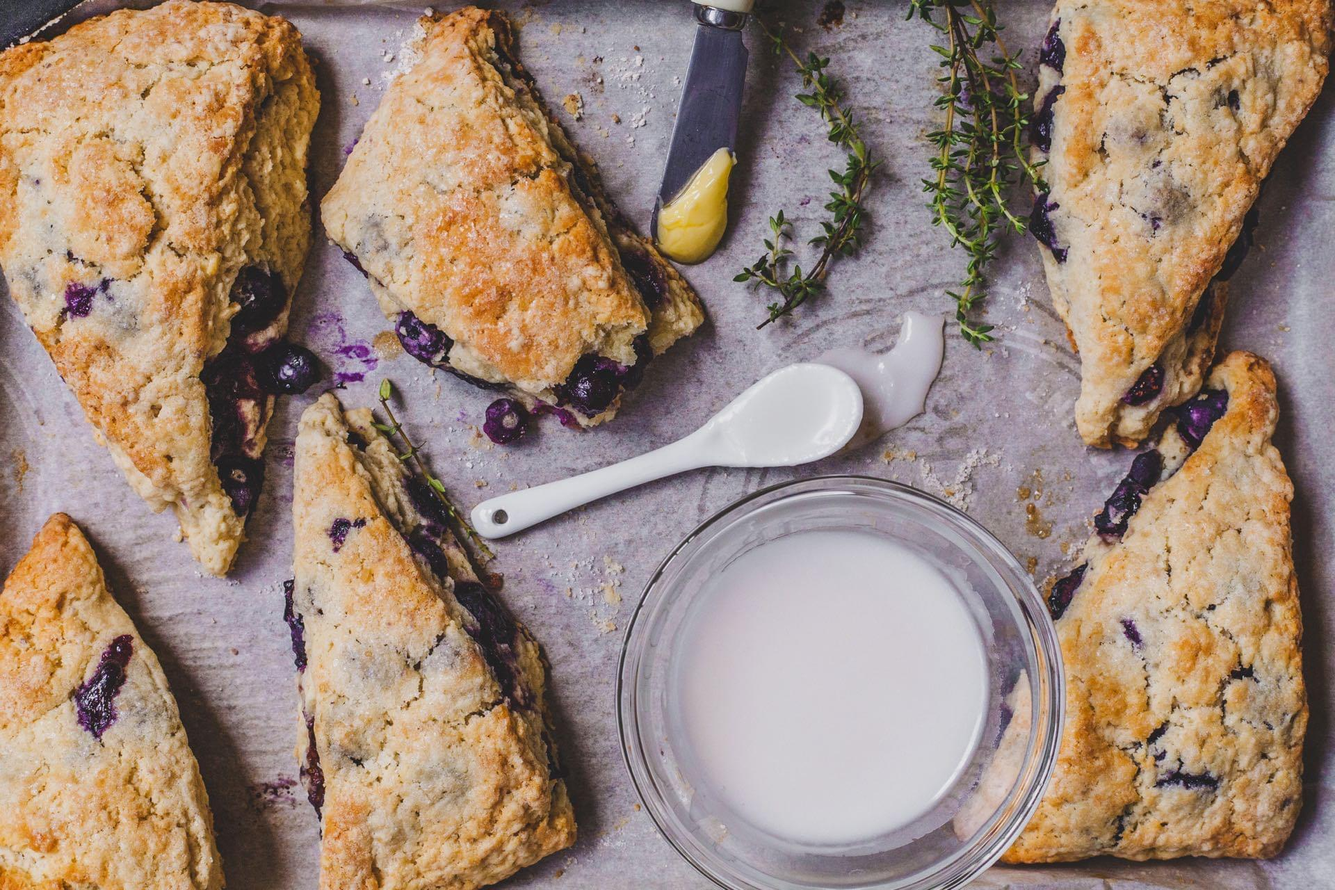
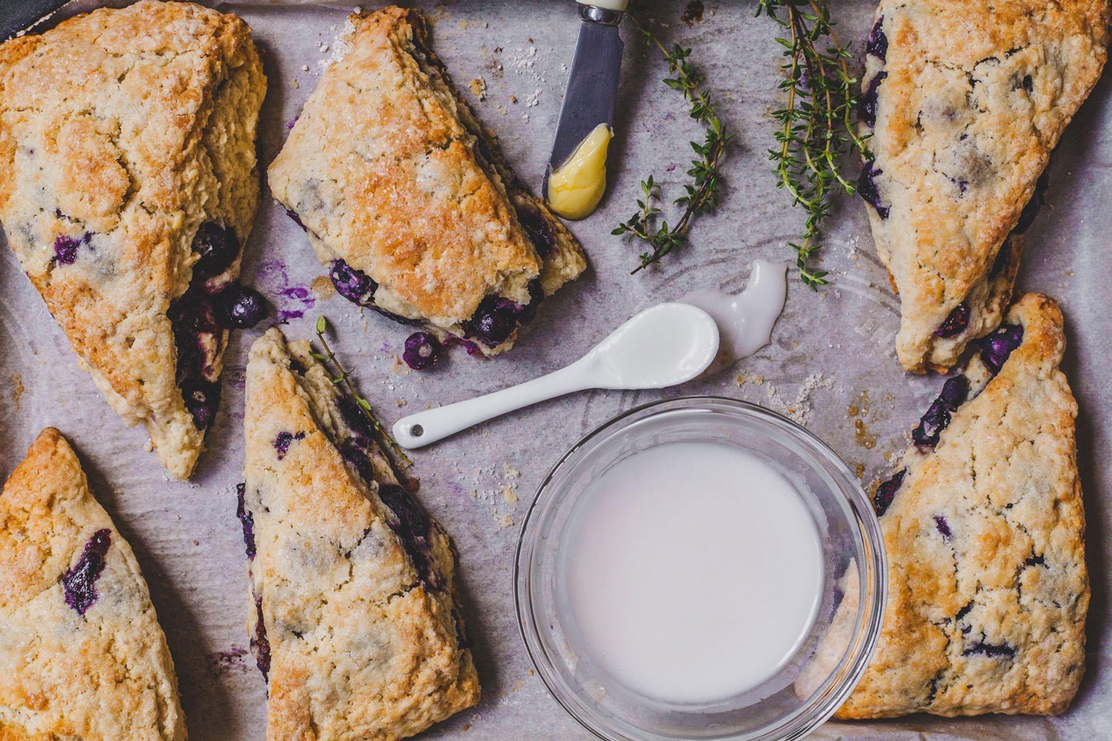
Recipe main page image thumbnails

diff --git a/site/layouts/blog/list.html b/site/layouts/blog/list.html
@@ -10,7 +10,7 @@
     <h3 class="cat_heading">Mains</h3>
     <ul class="related_taxonomy">
       {{ range first 4 .Site.Taxonomies.categories.mains }}
-        <li><a href="{{ .Page.RelPermalink }}"><img src="{{ .Params.thumbnail }}" alt="">{{ .Page.Title }}</a></li>
+        <li><a href="{{ .Page.RelPermalink }}"><img src="{{ .Params.scaled_thumbnail }}" alt="">{{ .Page.Title }}</a></li>
       {{ end }}
     </ul>
     <span class="btn_container"><a href="{{ .Site.BaseURL }}categories/mains"><div class="btn__main--recipe btn">Show more</div></a></span>
@@ -19,7 +19,7 @@
     <h3 class="cat_heading">Sides</h3>
     <ul class="related_taxonomy">
       {{ range first 4 .Site.Taxonomies.categories.sides }}
-        <li><a href="{{ .Page.RelPermalink }}"><img src="{{ .Params.thumbnail }}" alt="">{{ .Page.Title }}</a></li>
+        <li><a href="{{ .Page.RelPermalink }}"><img src="{{ .Params.scaled_thumbnail }}" alt="">{{ .Page.Title }}</a></li>
       {{ end }}
     </ul>
     <span class="btn_container"><a href="{{ .Site.BaseURL }}categories/sides"><div class="btn__main--recipe btn">Show more</div></a></span>
@@ -28,7 +28,7 @@
     <h3 class="cat_heading">Soups</h3>
     <ul class="related_taxonomy">
       {{ range first 4 .Site.Taxonomies.categories.soups }}
-        <li><a href="{{ .Page.RelPermalink }}"><img src="{{ .Params.thumbnail }}" alt="">{{ .Page.Title }}</a></li>
+        <li><a href="{{ .Page.RelPermalink }}"><img src="{{ .Params.scaled_thumbnail }}" alt="">{{ .Page.Title }}</a></li>
       {{ end }}
     </ul>
     <span class="btn_container"><a href="{{ .Site.BaseURL }}categories/soups"><div class="btn__main--recipe btn">Show more</div></a></span>
@@ -37,7 +37,7 @@
     <h3 class="cat_heading">Breakfast</h3>
     <ul class="related_taxonomy">
       {{ range first 4 .Site.Taxonomies.categories.breakfast }}
-        <li><a href="{{ .Page.RelPermalink }}"><img src="{{ .Params.thumbnail }}" alt="">{{ .Page.Title }}</a></li>
+        <li><a href="{{ .Page.RelPermalink }}"><img src="{{ .Params.scaled_thumbnail }}" alt="">{{ .Page.Title }}</a></li>
       {{ end }}
     </ul>
     <span class="btn_container"><a href="{{ .Site.BaseURL }}categories/breakfast"><div class="btn__main--recipe btn">Show more</div></a></span>
